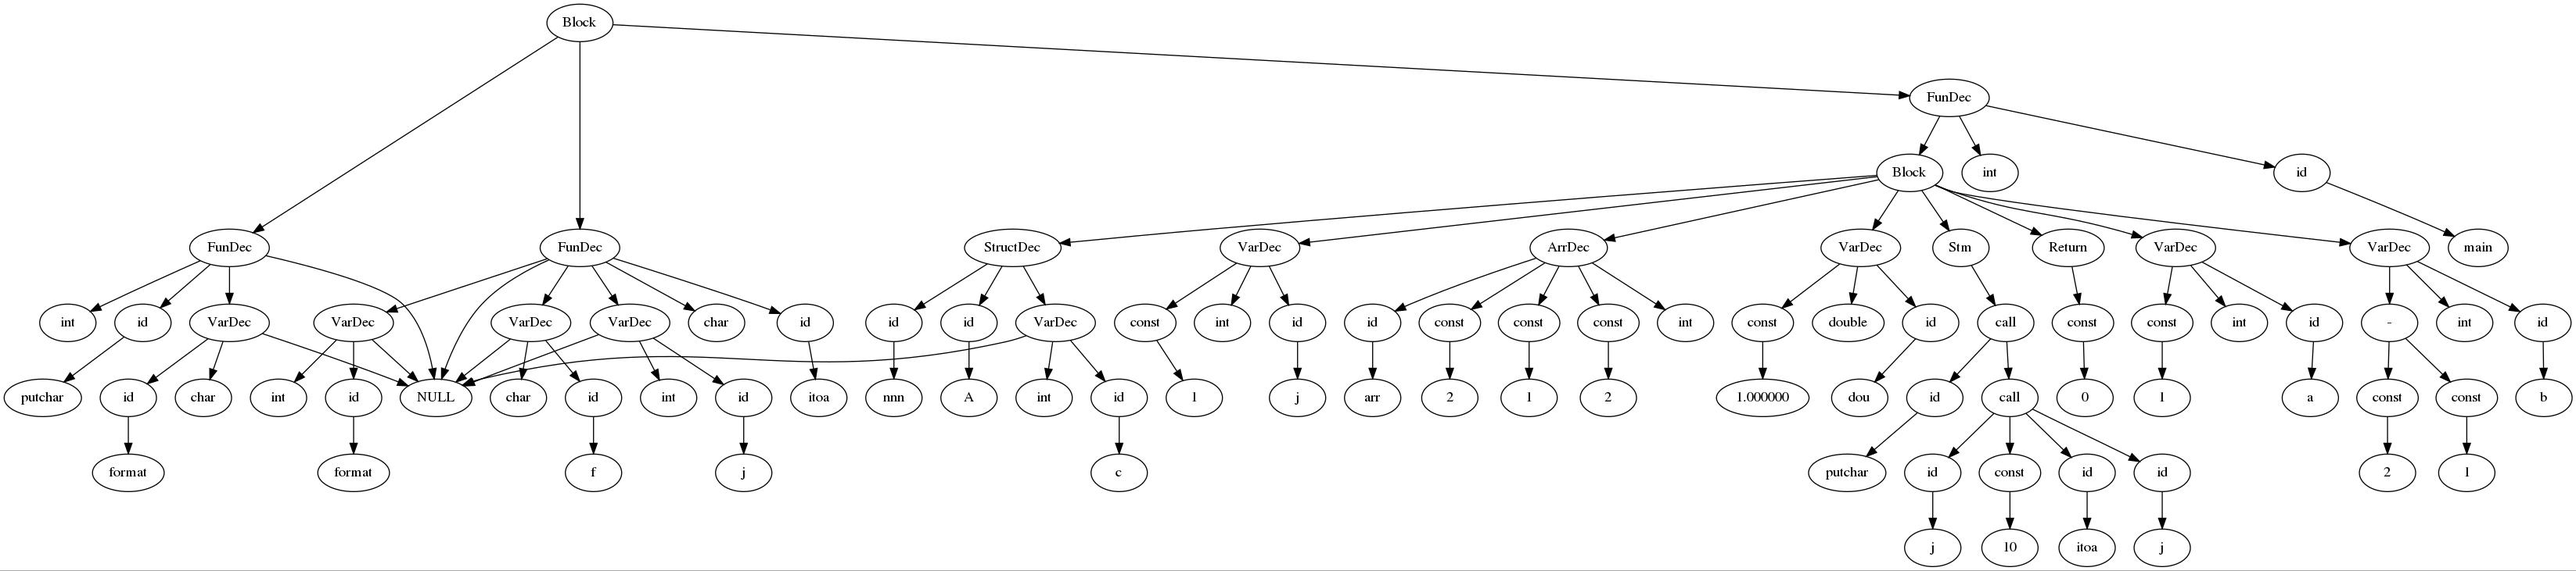
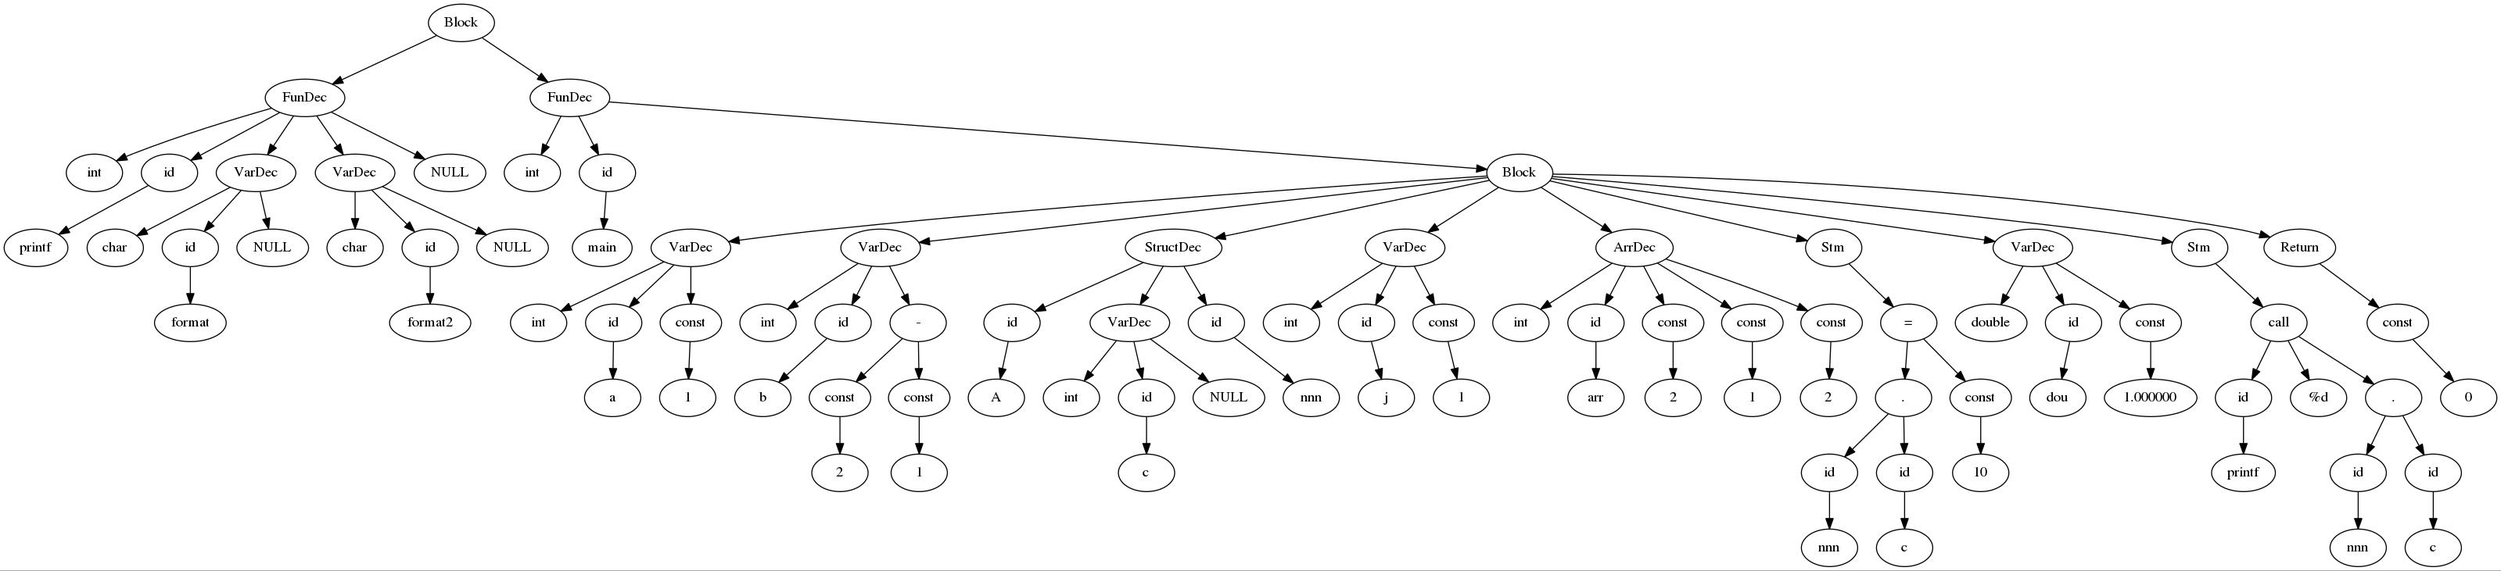
Tree display bug eliminated

diff --git a/CCompiler/TreeDisplay/treeDisplay.cpp b/CCompiler/TreeDisplay/treeDisplay.cpp
@@ -31,6 +31,7 @@ int nVariableDeclaration = 0;
 int nArrayDeclaration = 0;
 int nFunctionDeclaration = 0;
 int nStructDeclaration = 0;
+int nNULL = 0;
 
 string getOpName(int op)
 {
@@ -77,7 +78,12 @@ string displayChild(FILE* fp, Node* node)
 {
 	if(node == nullptr)
 	{
-		return string("NULL");
+		char buf[100];
+		nNULL++;
+		fprintf(fp, "	NULL%d [label = \"NULL\"];\n", nNULL);
+		sprintf(buf, "NULL%d",nNULL);
+		string ret(buf);
+		return ret;
 	}
 	else if(node->getType().compare("Double") == 0)
 	{
@@ -327,7 +333,7 @@ string displayChild(FILE* fp, Node* node)
 
 		int mySeq = nConst;
 		Literal* obj = dynamic_cast<Literal*>(node);
-		fprintf(fp, "	Const%d [label = \"\"%s\"\"];\n", mySeq, obj->value.c_str());
+		fprintf(fp, "	Const%d [label = %s];\n", mySeq, obj->value.c_str());
 		
 		char buf[100];
 		
